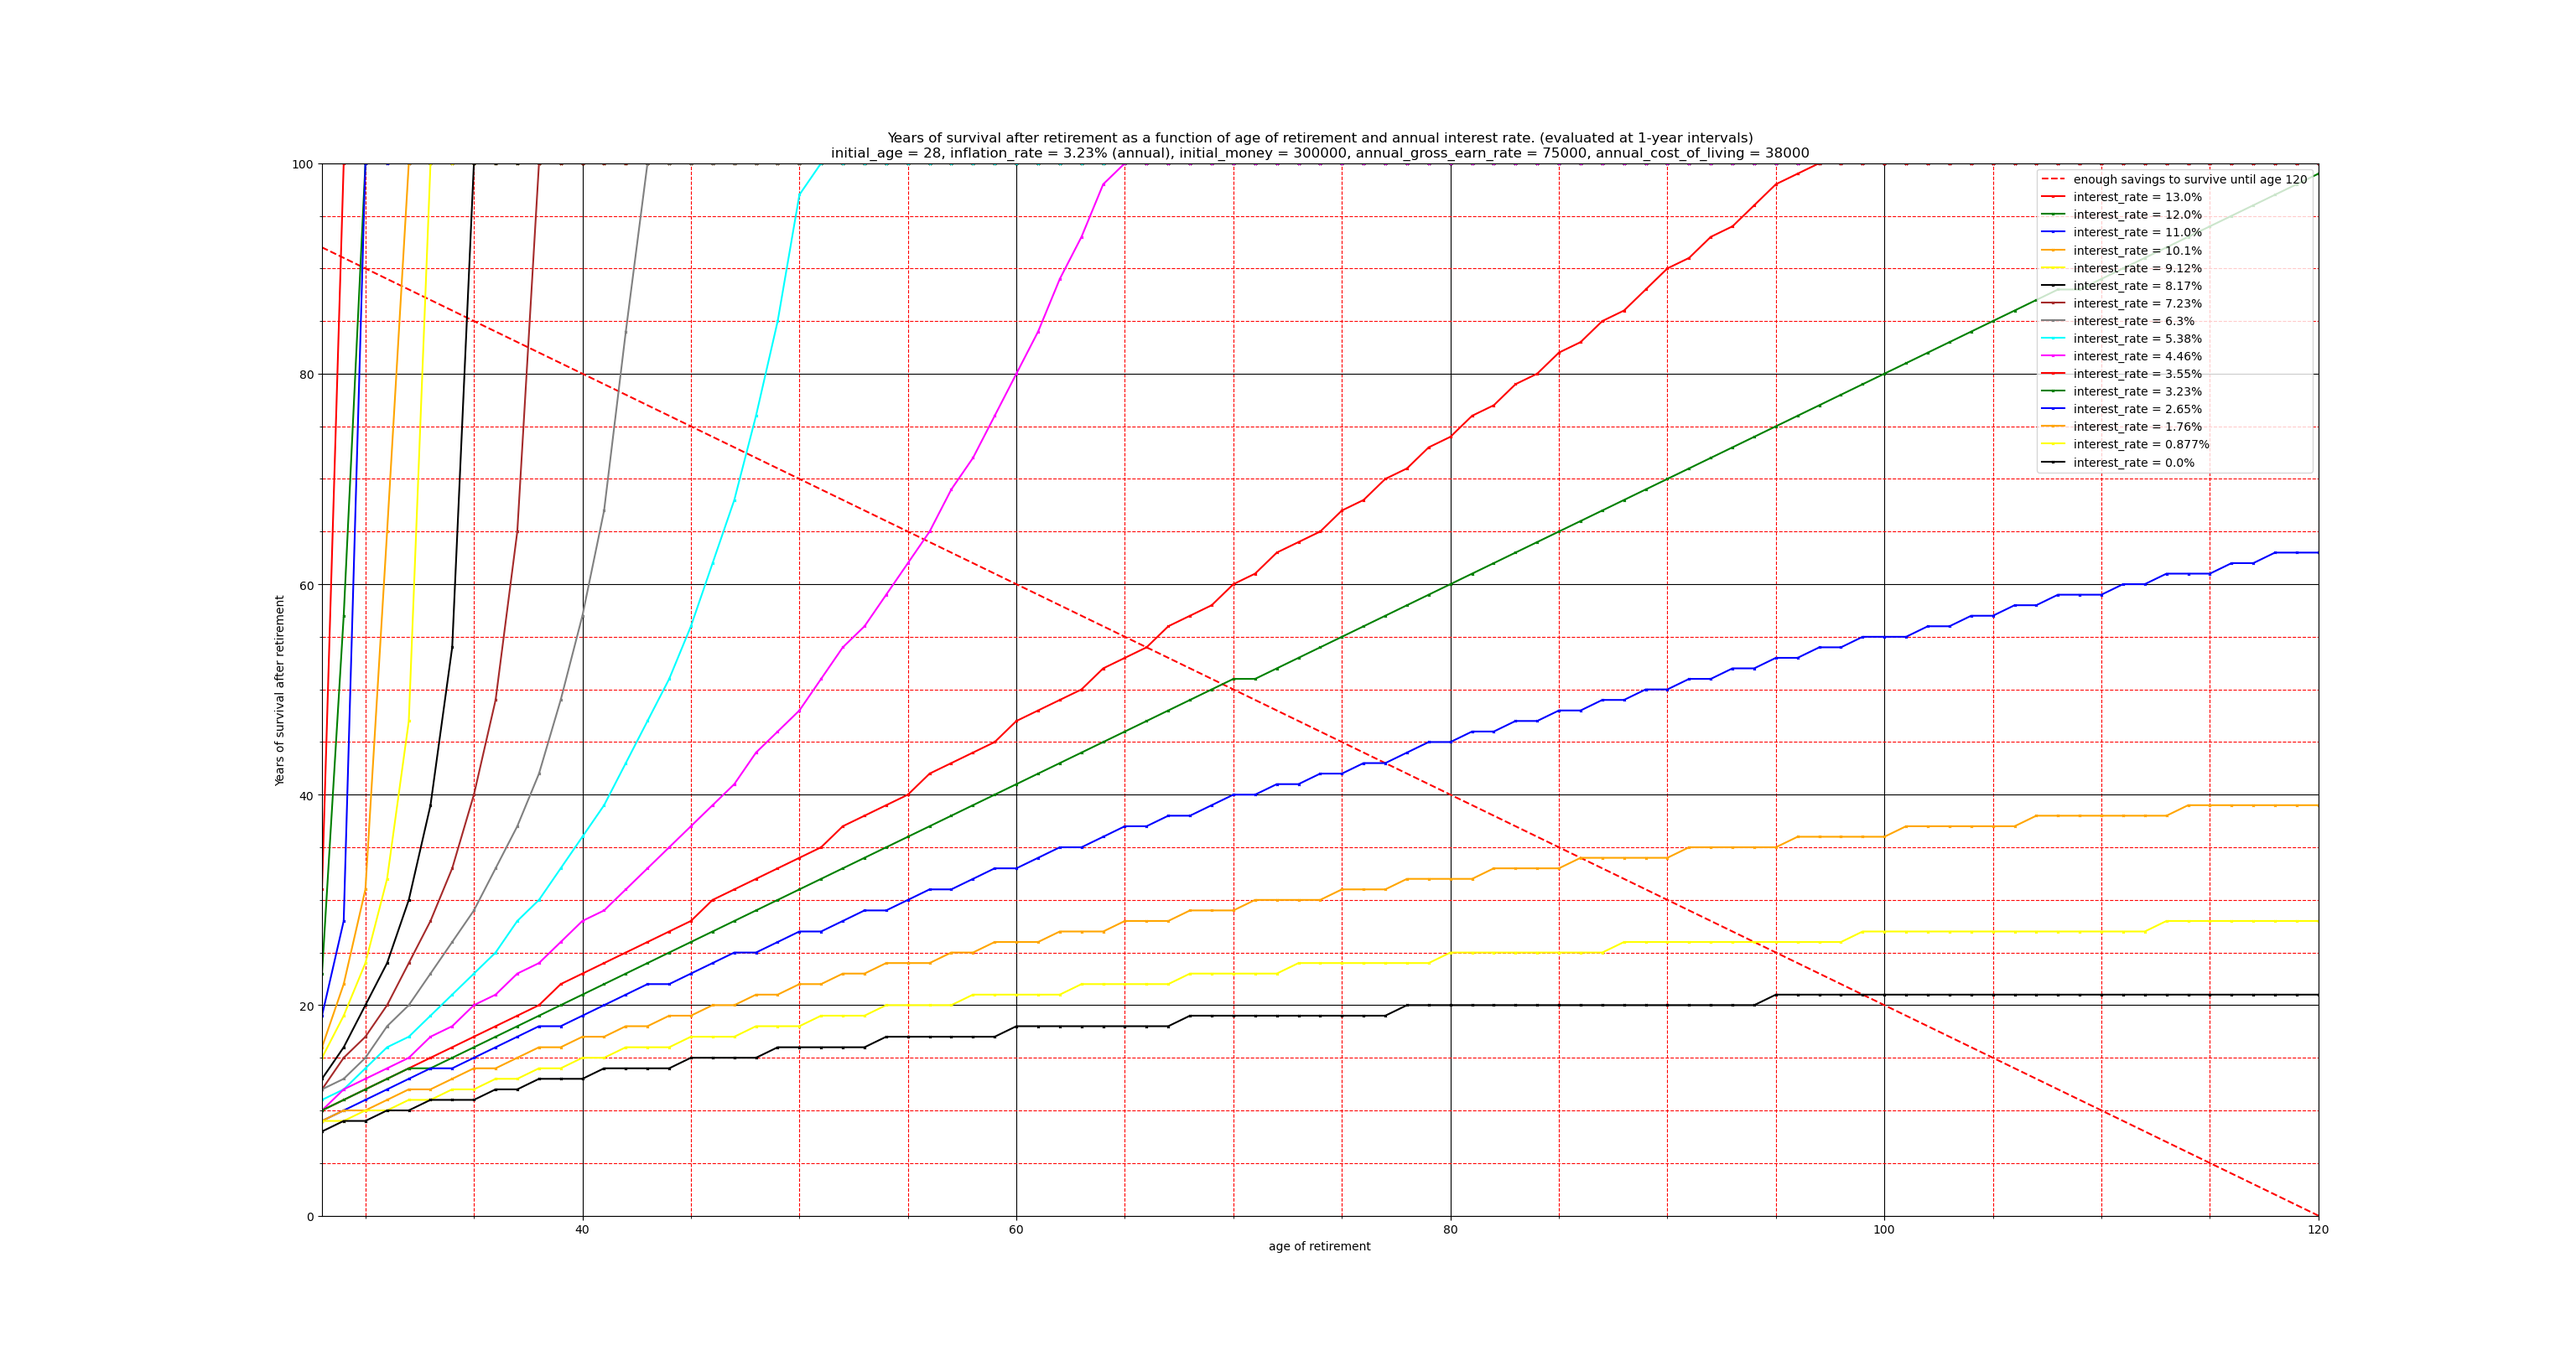
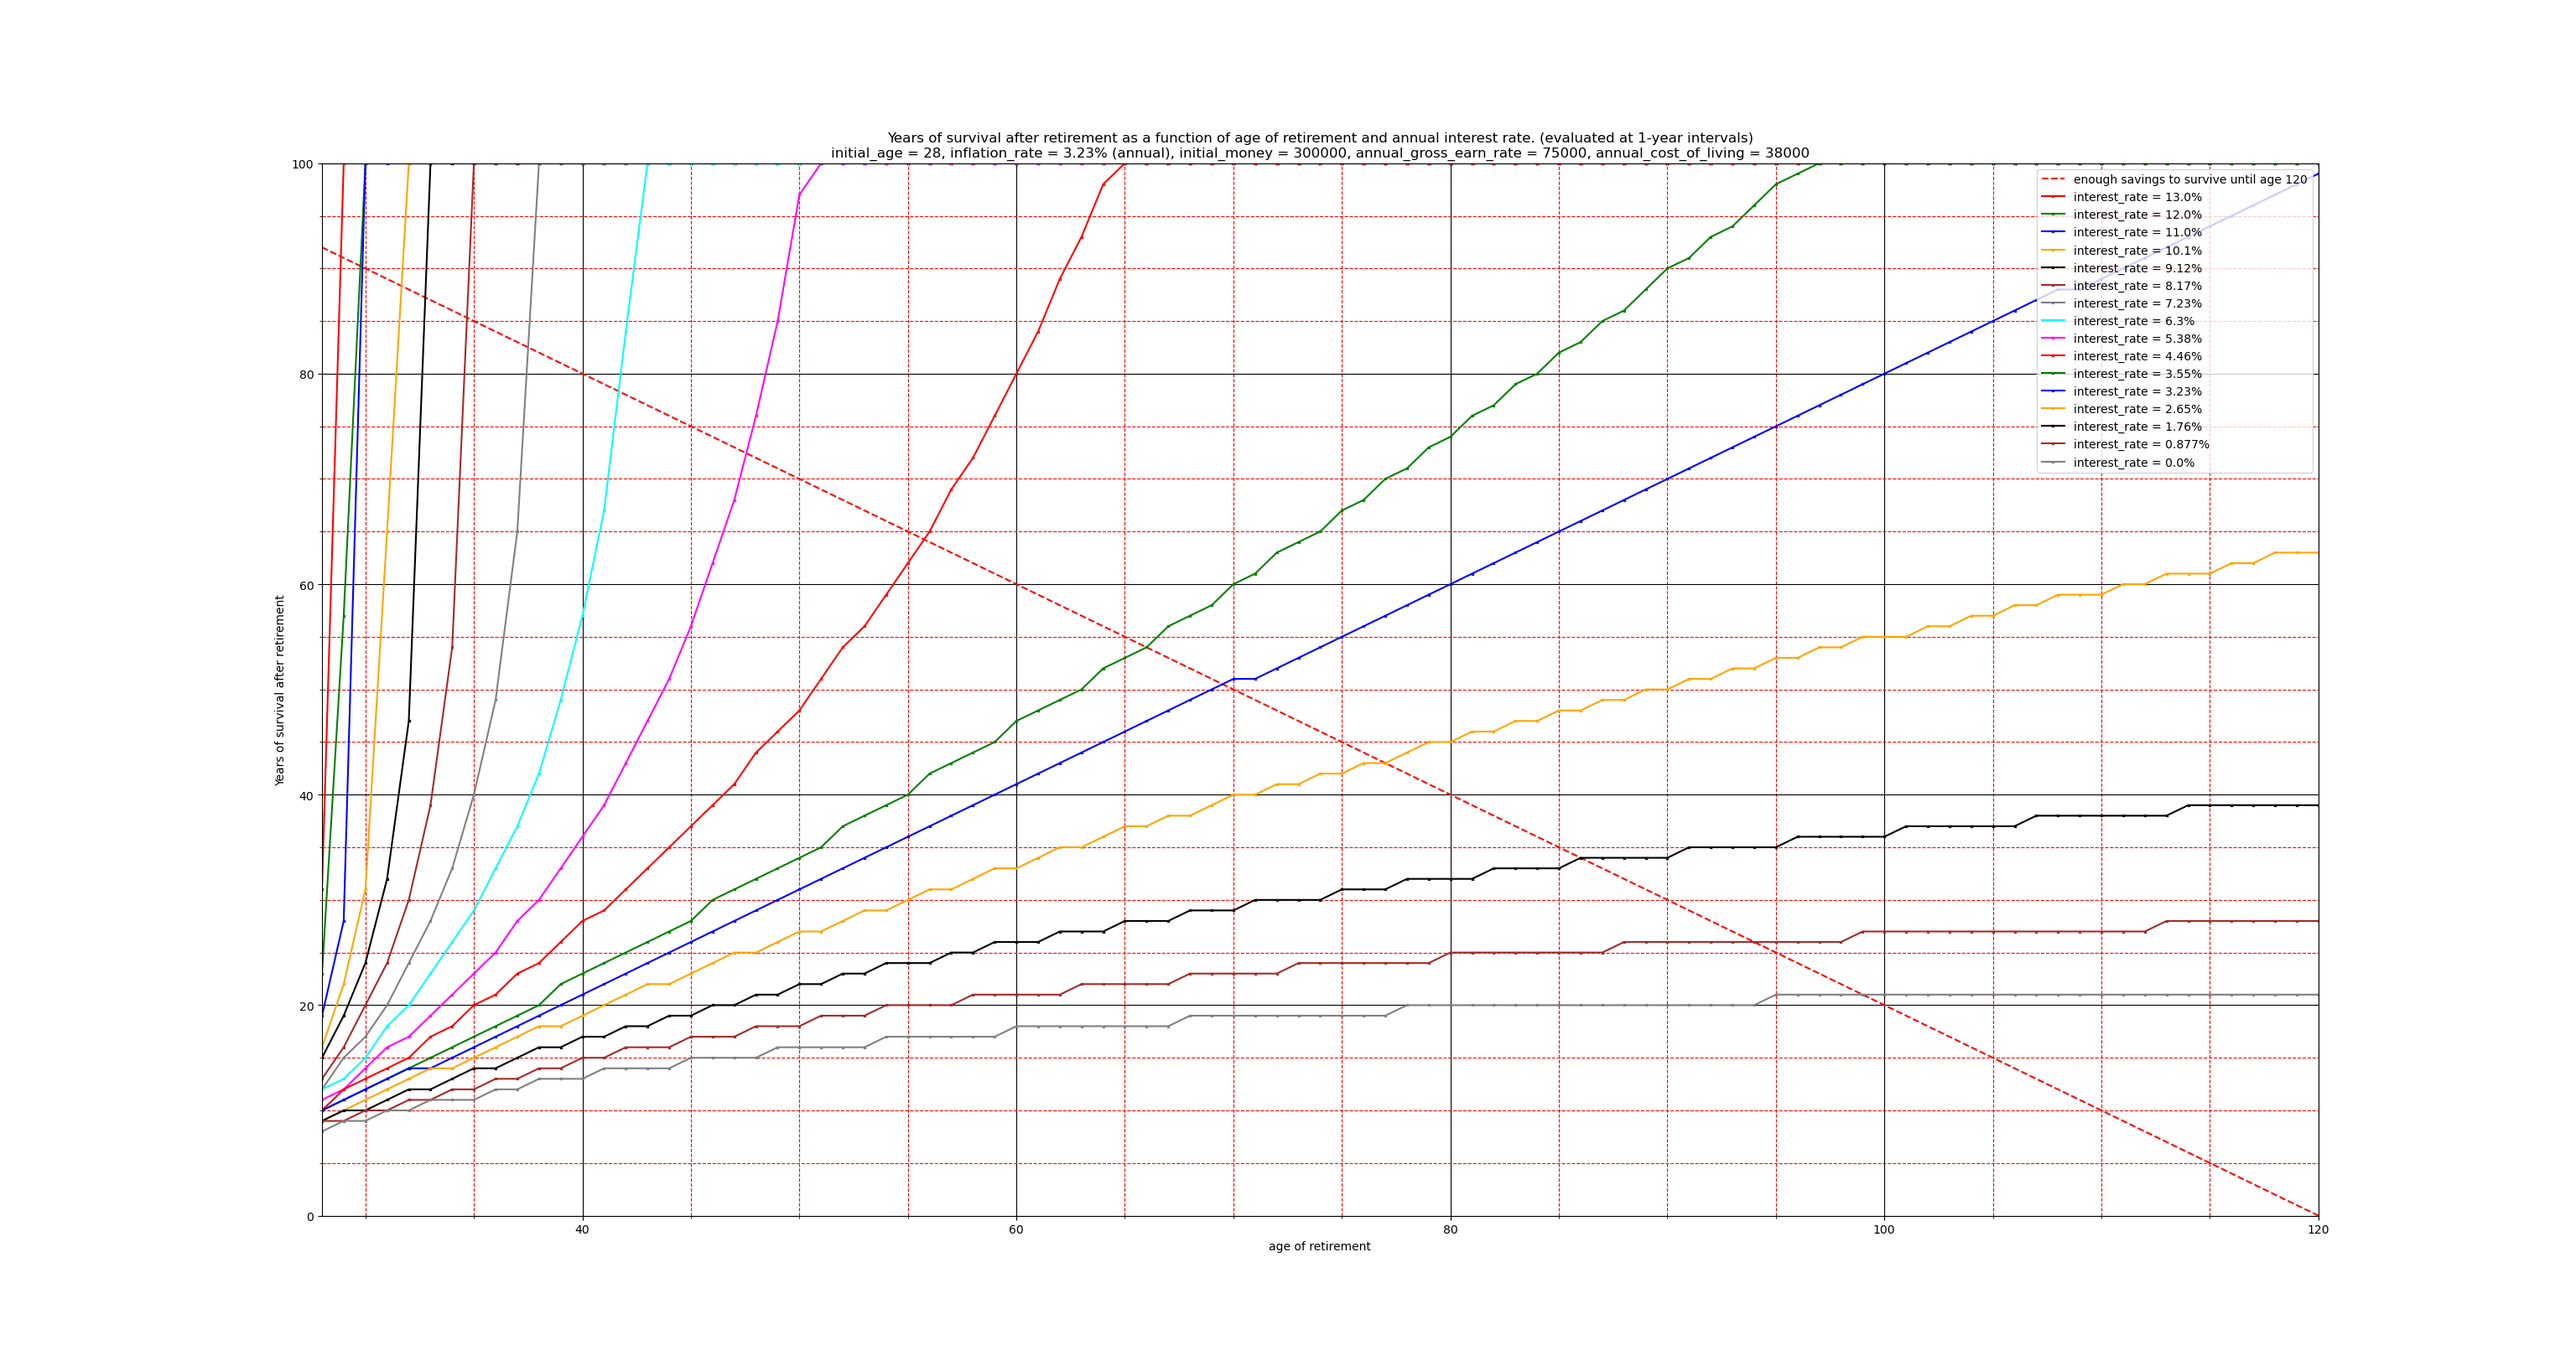
making color more readable

Changed region(s): [[0.125, 0.7055, 0.2812, 0.8282], [0.25, 0.6748, 0.2812, 0.7055]]

diff --git a/num_years_survive_vs_age_of_retirement_and_interest_rate.py b/num_years_survive_vs_age_of_retirement_and_interest_rate.py
@@ -132,7 +132,8 @@ if __name__ == '__main__':
     plt.xlim(initial_age, likely_death_age)
     plt.ylim(0, 100)
 
-    colors = ['red', 'green', 'blue', 'orange', 'yellow', 'black', 'brown', 'gray', 'cyan', 'magenta']
+    # colors = ['red', 'green', 'blue', 'orange', 'yellow', 'black', 'brown', 'gray', 'cyan', 'magenta']
+    colors = ['red', 'green', 'blue', 'orange', 'black', 'brown', 'gray', 'cyan', 'magenta']
 
     # plot line indicating will surive to likely_death_age
     # lambda x: -x + 120
